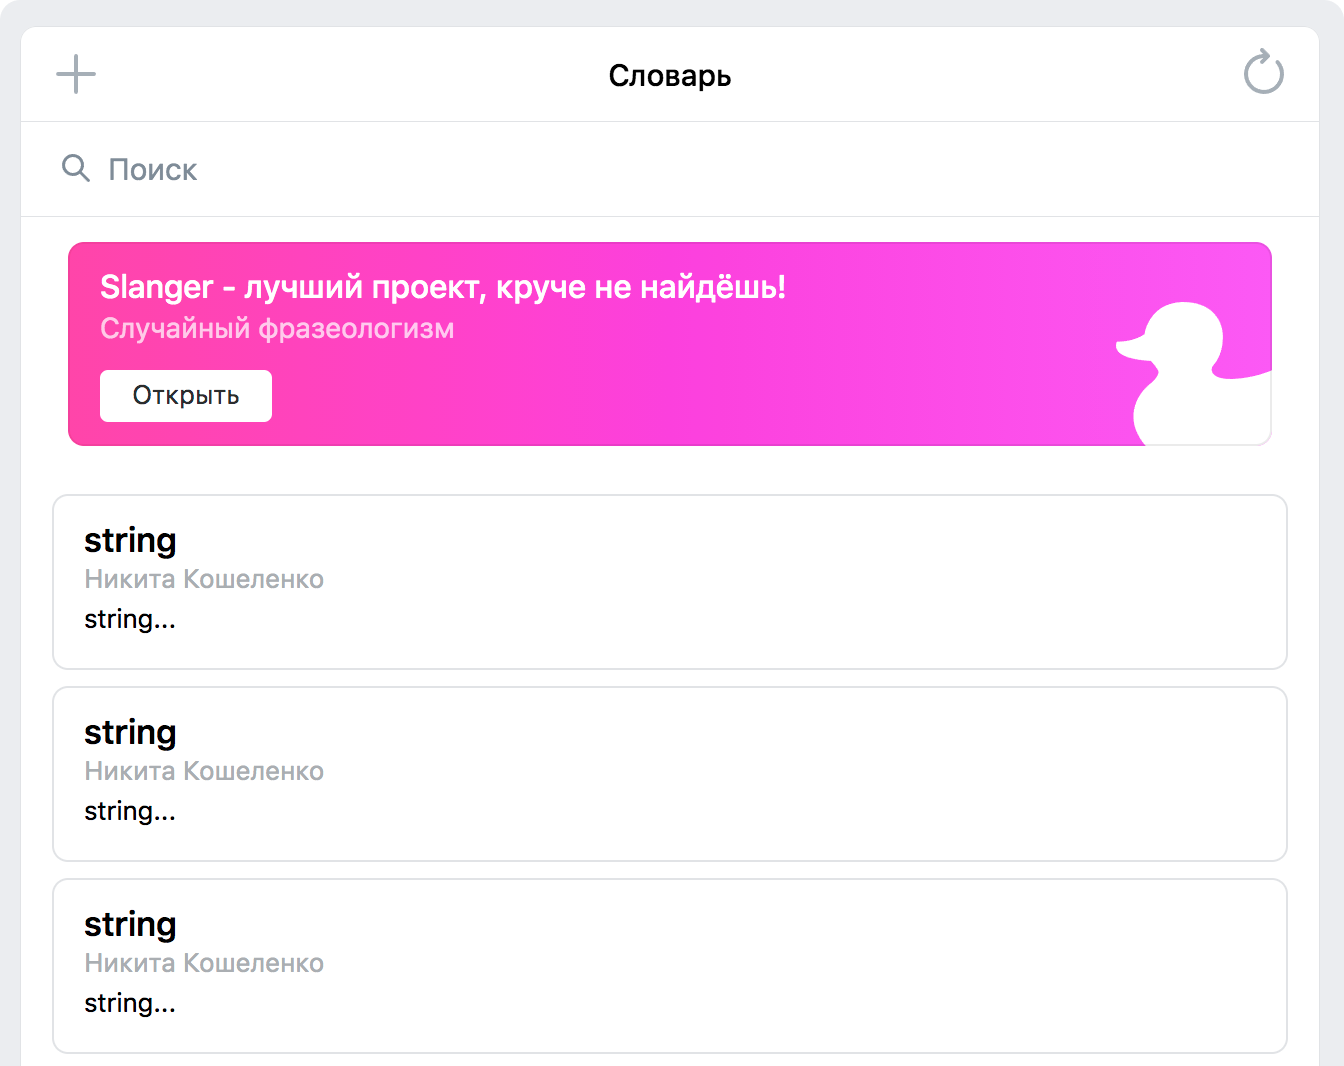
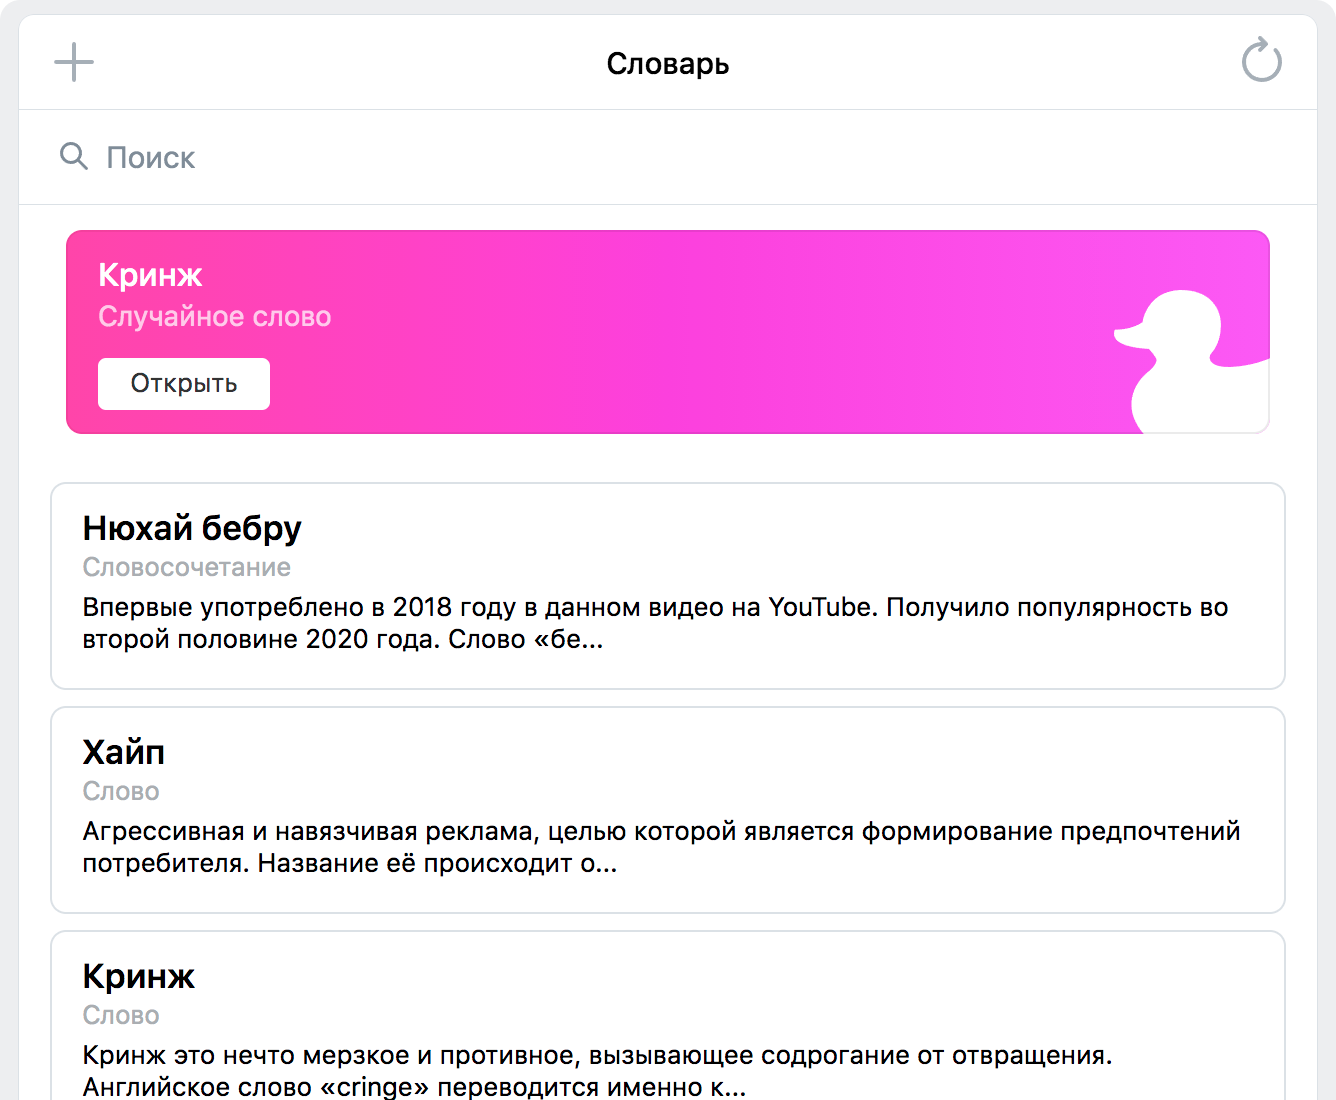
fix: Баги

diff --git a/src/panels/Slang.tsx b/src/panels/Slang.tsx
@@ -63,7 +63,13 @@ import {
   SlangDeleteAlert,
   UserBadge
 } from '../components';
-import { popoutAtom, rightsAtom, snackbarAtom, vkUserAtom } from '../store';
+import {
+  gifAtom,
+  popoutAtom,
+  rightsAtom,
+  snackbarAtom,
+  vkUserAtom
+} from '../store';
 
 type Props = {
   nav: string;
@@ -80,6 +86,7 @@ export const Slang: FC<Props> = ({ nav }: Props) => {
 
   const setPopout = useSetAtomState(popoutAtom);
   const setSnackbar = useSetAtomState(snackbarAtom);
+  const setGif = useSetAtomState(gifAtom);
 
   // Нехорошо так делать, но пока так придется
   const [, forceUpdate] = useReducer((x) => x + 1, 0);
@@ -108,6 +115,7 @@ export const Slang: FC<Props> = ({ nav }: Props) => {
   );
 
   const desktop: boolean = (viewWidth ?? 0) >= ViewWidth.SMALL_TABLET;
+  const isModerator: boolean = ['moderator', 'admin'].includes(rights);
   const style: CSSProperties = {
     color: 'var(--button_secondary_destructive_foreground)'
   };
@@ -225,18 +233,20 @@ export const Slang: FC<Props> = ({ nav }: Props) => {
 
         {!error && <Spacing size={16} />}
 
-        {!error && vkUser.id === user?.id && (
+        {!error && (vkUser.id === user?.id || isModerator) && (
           <>
-            {status === 'moderating' && (
+            {(status === 'moderating' || isModerator) && (
               <CellButton
                 centered
                 before={<Icon28EditOutline />}
-                onClick={() => transition(view + '/editSlang', slang)}
+                onClick={() => {
+                  if (cover) setGif(cover);
+                  transition(view + '/editSlang', slang);
+                }}
               >
                 Редактировать
               </CellButton>
             )}
-            {/* TODO: Сделать это @NovaStream2030; здесь еще надо подтверждение через Alert */}
             <CellButton
               centered
               before={<Icon28DeleteOutline style={style} />}
@@ -252,7 +262,7 @@ export const Slang: FC<Props> = ({ nav }: Props) => {
           </>
         )}
 
-        {word && ['moderator', 'admin'].includes(rights) && (
+        {word && isModerator && (
           <>
             <CellButton
               centered

diff --git a/src/components/SlangForm.tsx b/src/components/SlangForm.tsx
@@ -20,7 +20,8 @@ import {
   ViewWidth,
   FormLayout,
   Footer,
-  Checkbox
+  Checkbox,
+  Textarea
 } from '@vkontakte/vkui';
 import { Icon24AddOutline } from '@vkontakte/icons';
 
@@ -78,18 +79,29 @@ export const SlangForm: FC<Props> = ({
       desktop ? `${view}${panel}?modal=choose-gif` : `${view}/choose-gif`
     );
 
-  const handleChange = (
-    e: ChangeEvent<HTMLInputElement> | ChangeEvent<HTMLSelectElement>
-  ): void => {
-    if (!(e.target.name in values)) return;
+  const handleChange = ({
+    target
+  }: ChangeEvent<
+    HTMLInputElement | HTMLTextAreaElement | HTMLSelectElement
+  >): void => {
+    if (!(target.name in values)) return;
+    if (target.name === 'type') dispatchErrors({ type: null });
 
-    if (e.target.name === 'type') dispatchErrors({ type: null });
+    const prop: Record<keyof Schema, keyof typeof target> = {
+      type: 'value',
+      word: 'value',
+      description: 'value',
+      // eslint-disable-next-line
+      // @ts-ignore
+      fromEdition: 'checked'
+    };
+
+    // eslint-disable-next-line
+      // @ts-ignore
+    console.log(target.checked);
 
     dispatchValues({
-      [e.target.name]:
-        e.target.type === 'checkbox'
-          ? (e.target as HTMLInputElement).checked
-          : e.target.value
+      [target.name]: target[prop[target.name as keyof Schema]]
     });
   };
 
@@ -172,7 +184,7 @@ export const SlangForm: FC<Props> = ({
         status={errors.description ? 'error' : 'default'}
         bottom={errors.description}
       >
-        <Input
+        <Textarea
           name="description"
           placeholder="Понятно для читателя"
           value={values.description}

diff --git a/src/components/SlangCard/SlangCard.tsx b/src/components/SlangCard/SlangCard.tsx
@@ -42,7 +42,7 @@ export const SlangCard: FC<Props> = (props: Props) => {
     slangId,
     // slang props
     word,
-    user,
+    type,
     description,
     // card props
     className,
@@ -76,15 +76,13 @@ export const SlangCard: FC<Props> = (props: Props) => {
             </Title>
           </div>
 
-          {user && (
-            <Caption
-              className="SlangCard__text SlangCard__text--secondary"
-              weight="regular"
-              level="1"
-            >
-              {user.vk.fullName}
-            </Caption>
-          )}
+          <Caption
+            className="SlangCard__text SlangCard__text--secondary"
+            weight="regular"
+            level="1"
+          >
+            {type}
+          </Caption>
 
           <Caption
             className="SlangCard__description"

diff --git a/src/panels/EditSlang.tsx b/src/panels/EditSlang.tsx
@@ -53,6 +53,7 @@ export const EditSlang: FC<Props> = ({ nav }: Props) => {
       replace: true,
       ...update
     });
+    setGif(null);
   };
 
   return (
@@ -67,7 +68,8 @@ export const EditSlang: FC<Props> = ({ nav }: Props) => {
           initialValues={{
             type: types.indexOf(slang.type) + 1,
             word: slang.word,
-            description: slang.description
+            description: slang.description,
+            fromEdition: !slang.user
           }}
           handleSubmit={handleSubmit}
         />

diff --git a/src/panels/CreateSlang.tsx b/src/panels/CreateSlang.tsx
@@ -46,6 +46,7 @@ export const CreateSlang: FC<Props> = ({ nav }: Props) => {
       replace: true,
       ...slang
     });
+    setGif(null);
   };
 
   return (
